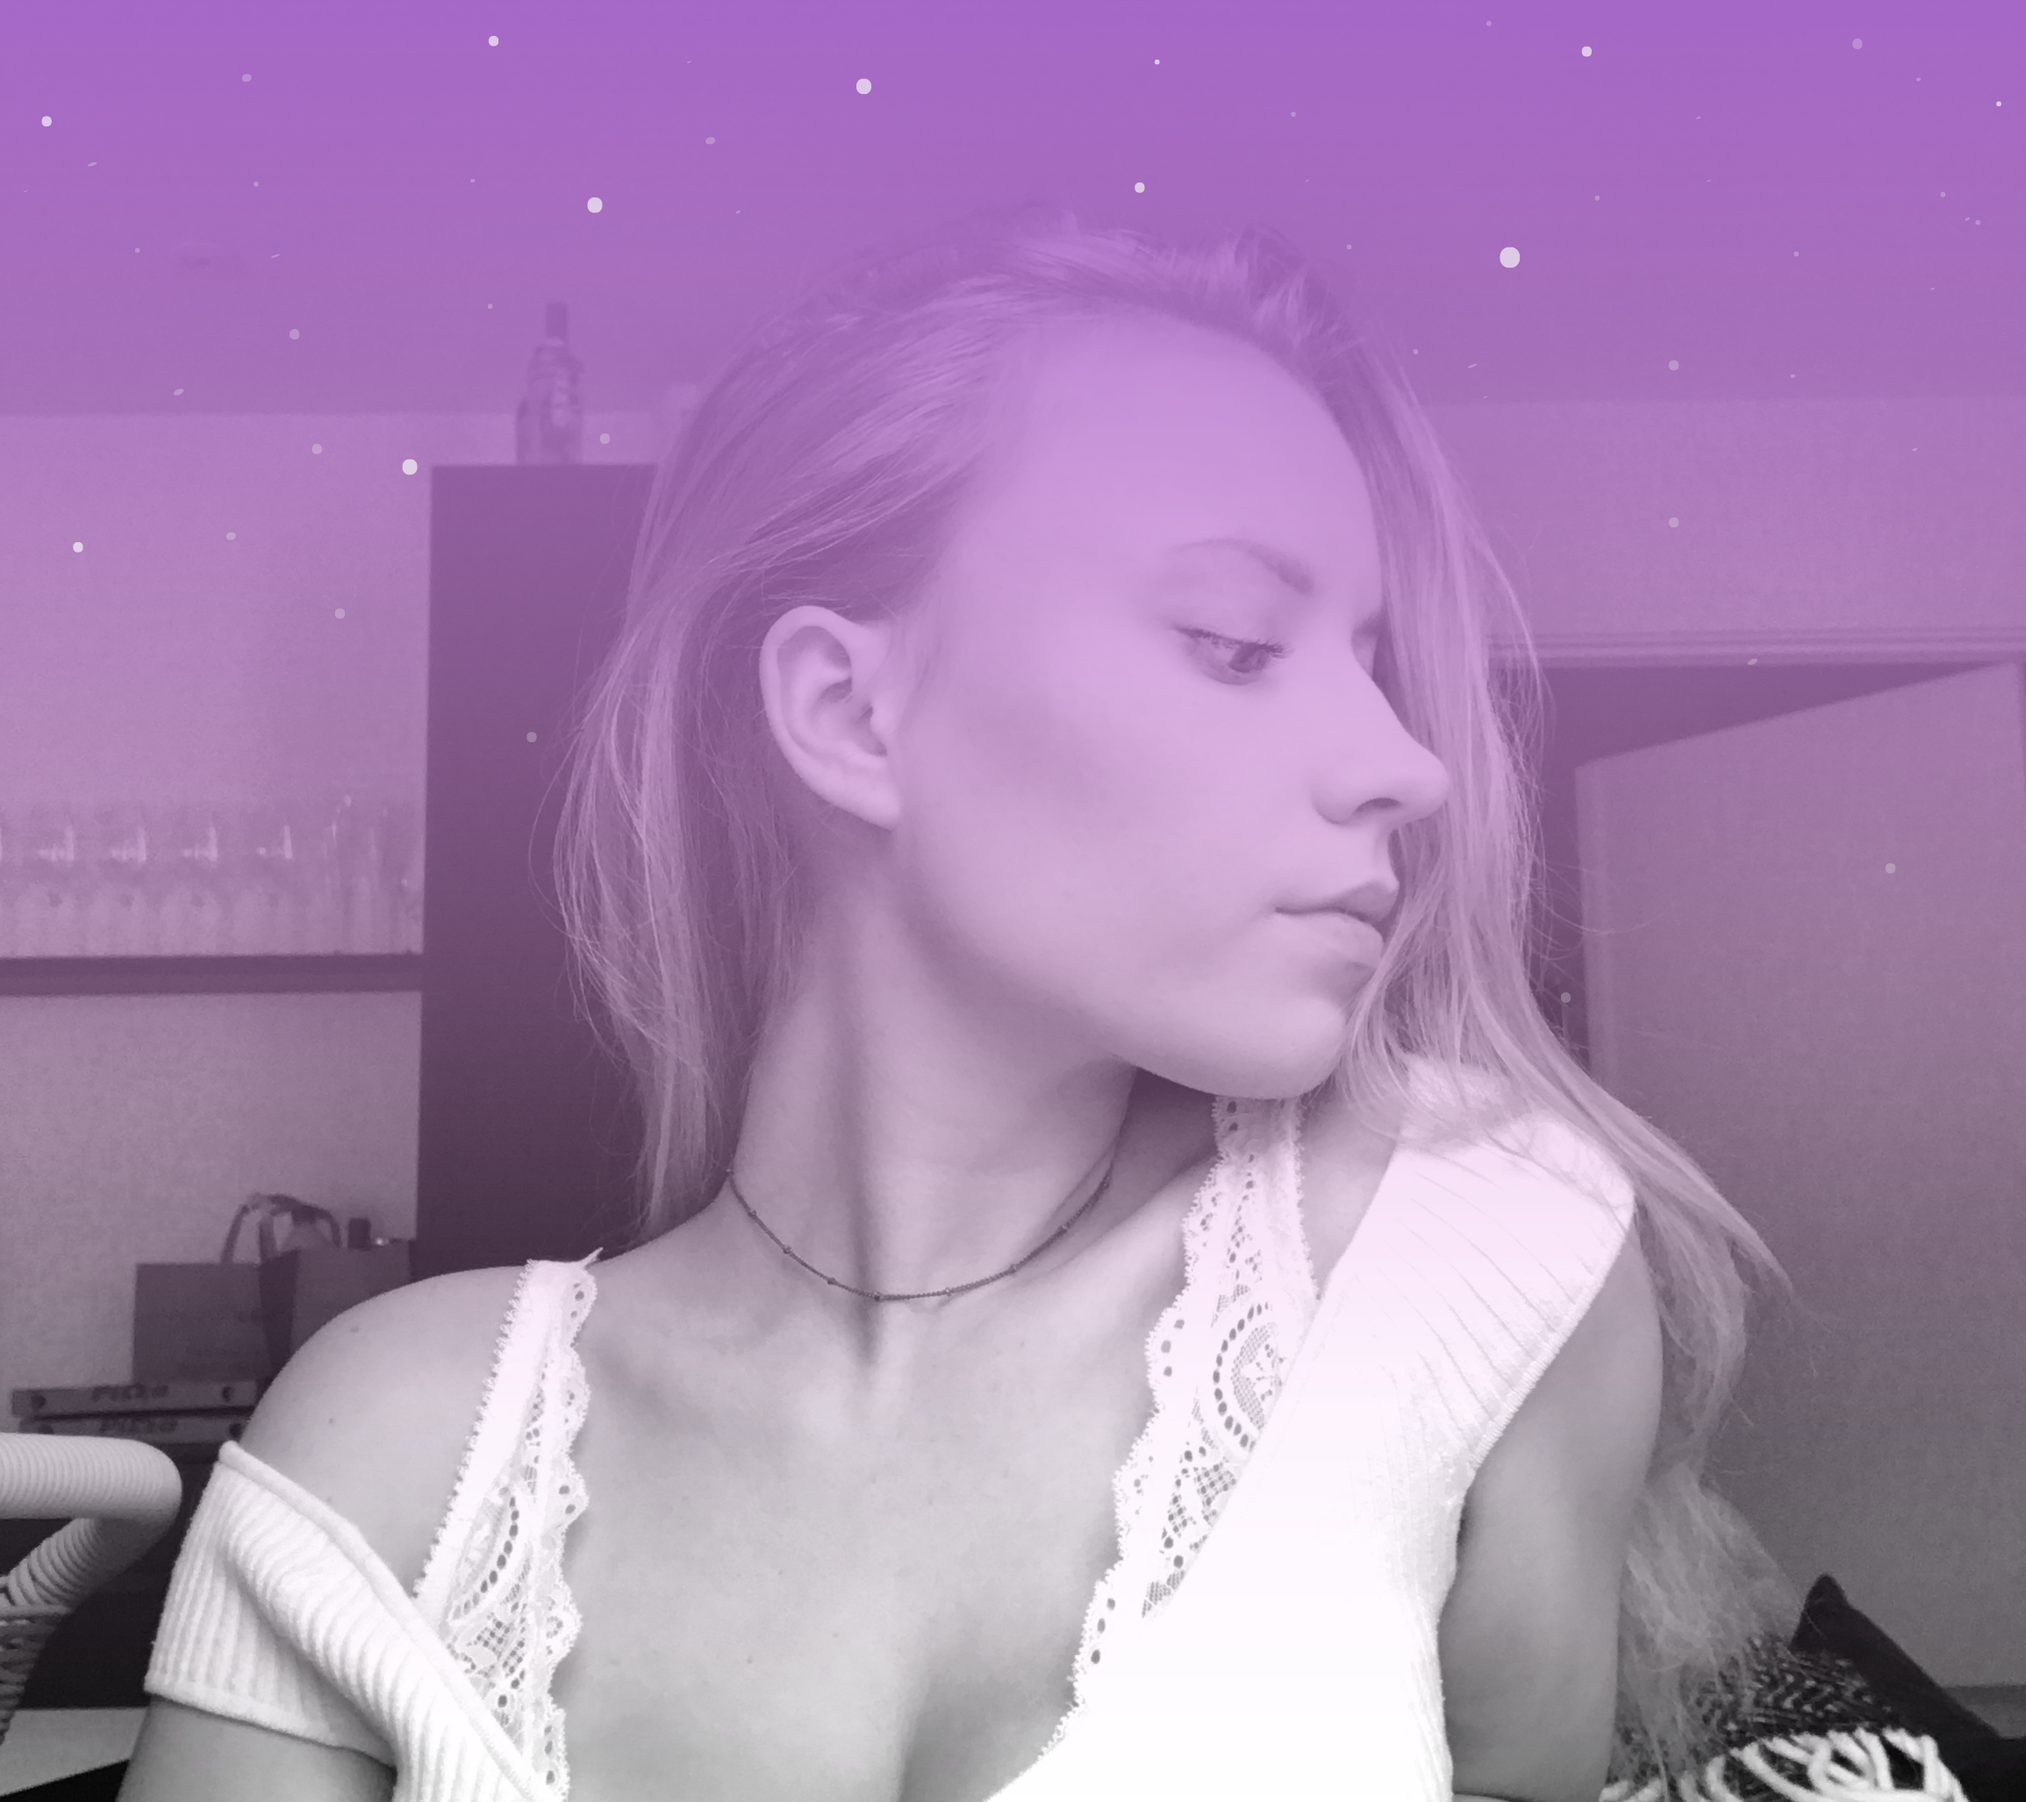
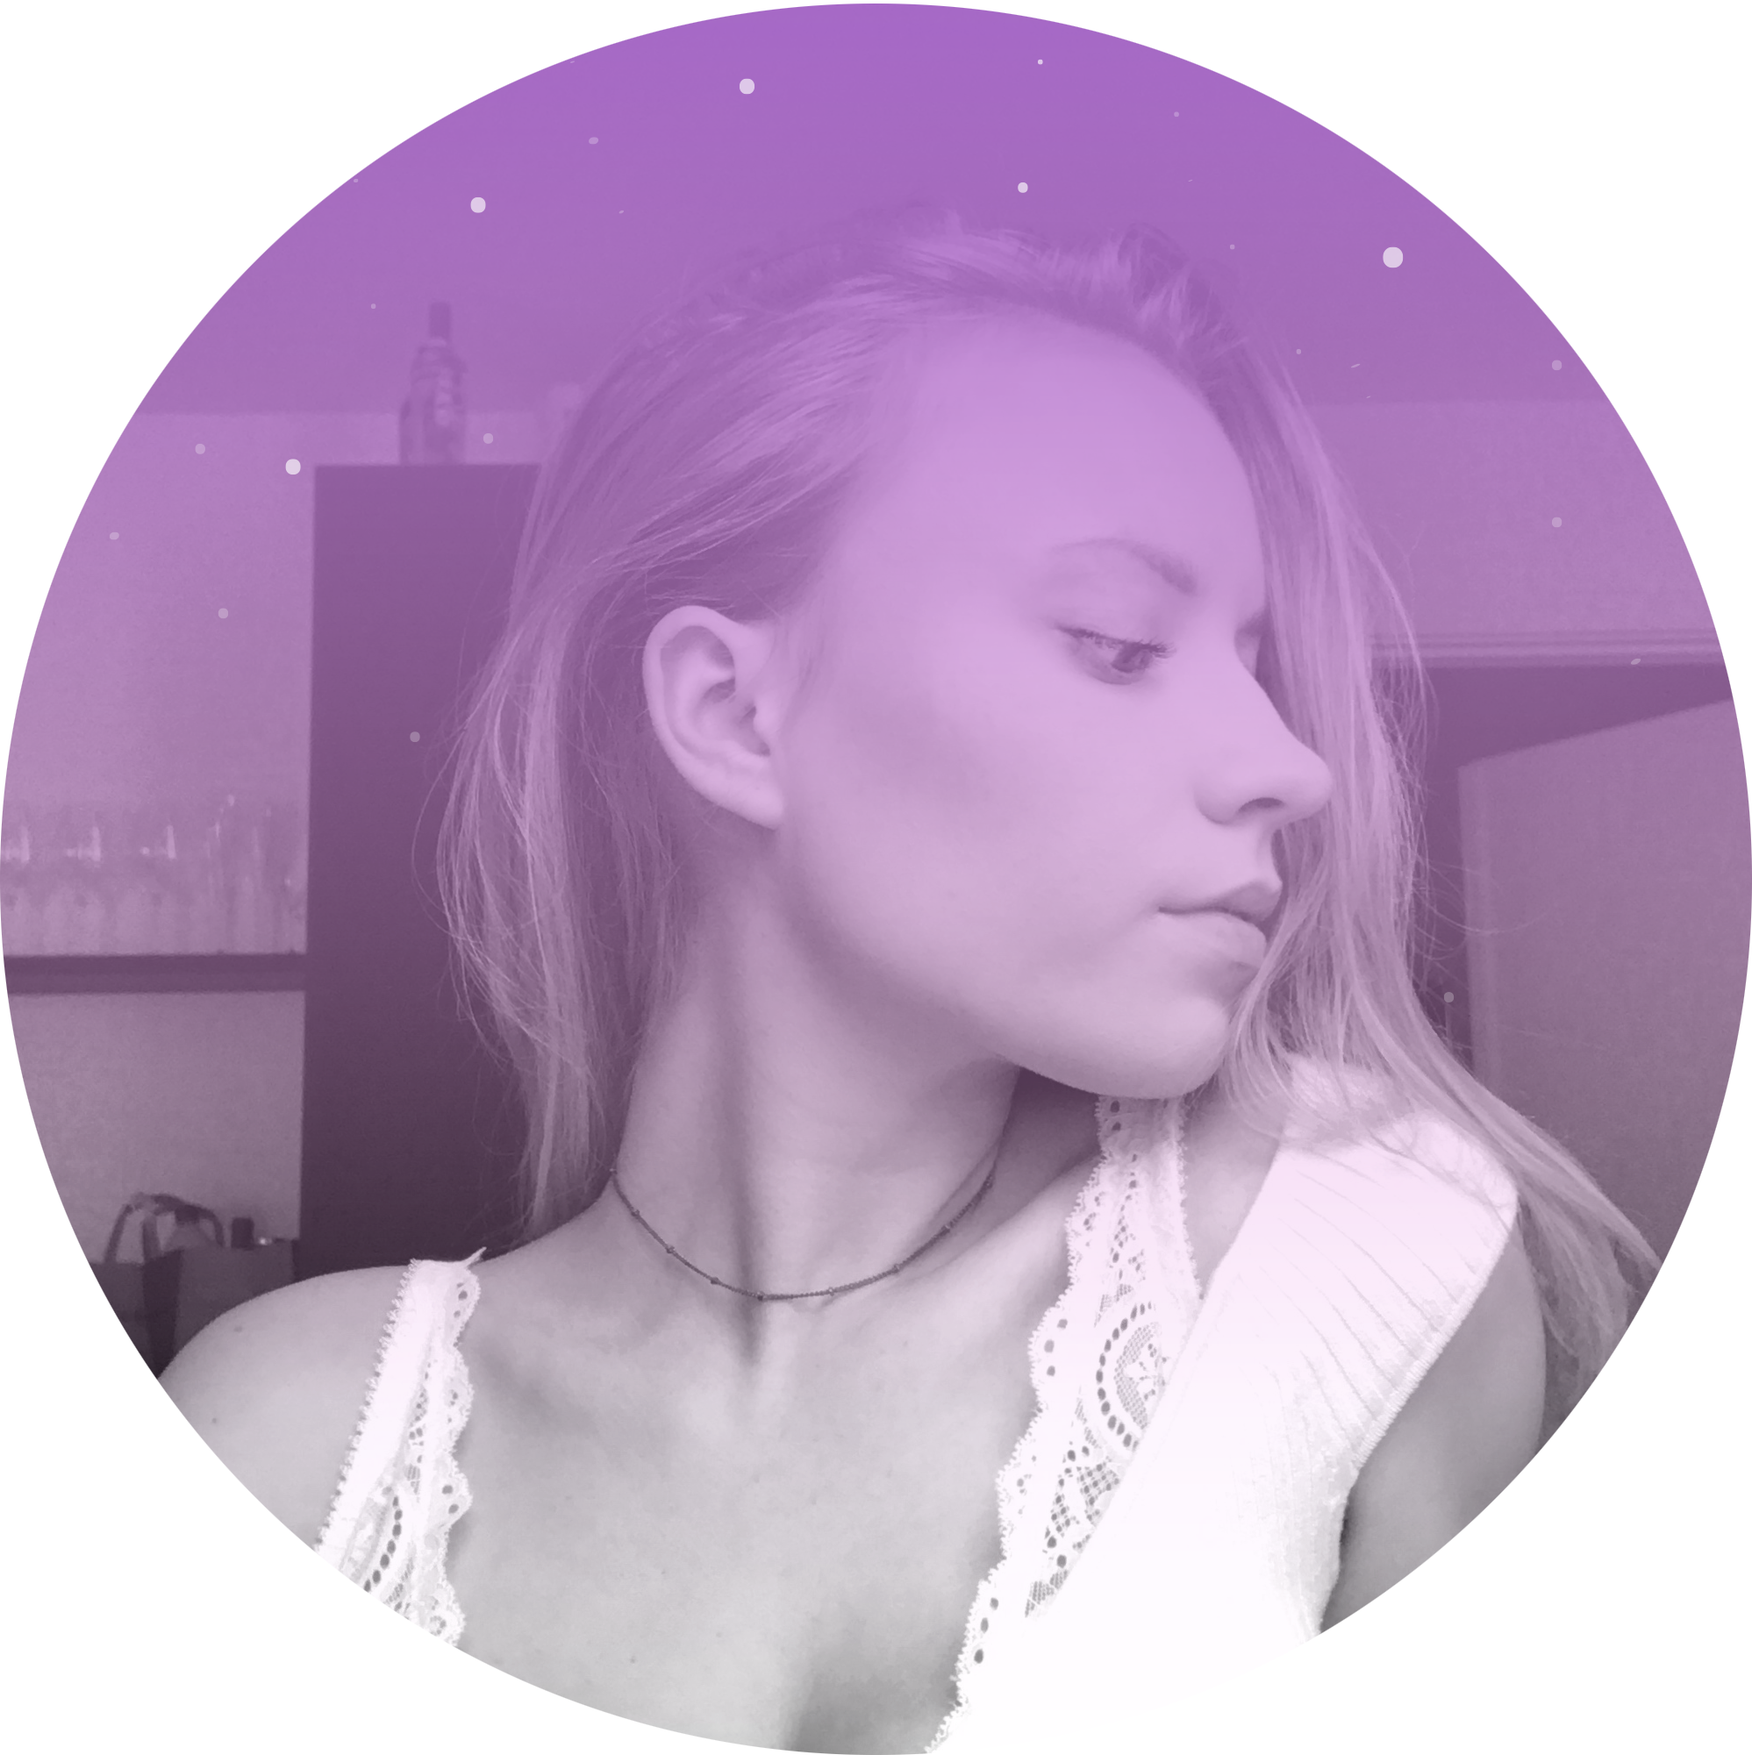
about me page further worked on - text put in

diff --git a/css/style.css b/css/style.css
@@ -157,7 +157,7 @@ input:checked ~ .menu {
     color: white;
     font-size: 1.2em;
     text-align: center;
-    padding: 5em 2em 5em 2em;
+    padding: 8em 2em 8em 2em;
 }
 
 .passion img {
@@ -167,7 +167,7 @@ input:checked ~ .menu {
 }
 
 .adobe {
-    padding: 5em 2em 5em 2em;
+    padding: 8em 2em 8em 2em;
     font-size: 1.2em;
     text-align: center;
 }
@@ -184,9 +184,9 @@ input:checked ~ .menu {
 /*       footer   */
 
 footer {
-    background-color: #DBB9CA;
+    background-color: rgba(205, 151, 218, .65);
     text-align: center;
-    padding: 5em 2em 5em 2em;
+    padding: 4em 2em 4em 2em;
 }
 
 footer p {
@@ -217,25 +217,33 @@ footer a {
 
 /* about me page */
 
-.header {
-    width: 130vw;
-    position: relative;
-    overflow-x: hidden;
-
-
-}
-
-.about-text {
-    position: absolute;
-    display: block;
-    top: 20vw;
-    right: 50vw;
-    font-size: 1em;
-    color: white;
+.moi {
+    padding: 5em 2em 1em 2em;
+    font-size: 1.2em;
+    text-align: center;
 }
 
 .moi img {
-    width: 100%;
+    width: 70vw;
+    height: auto;
+    padding-bottom: 2em;
+    padding-top: 2em;
+
+}
+
+.general {
+    background-color: #302A49;
+    color: white;
+    font-size: 1em;
+    text-align: center;
+    padding: 5em 2em 5em 2em;
+}
+
+.hobbies {
+    padding: 5em 2em 5em 2em;
+    font-size: 1em;
+    text-align: center;
+
 }
 
 /*    projects page   */
@@ -291,14 +299,20 @@ footer a {
 }
 
 
+
 /* TABLET VERSION */
 
-@media all and (min-width:35em) {
+@media all and (min-width:40em) {
 
     .homepic {
         width: 150%;
         height: auto;
         margin: 0em 0em 0em -15em
+    }
+
+    .tiril {
+        padding-top: 10em;
+        padding-bottom: 10em;
     }
 
     .tiril img {
@@ -309,8 +323,19 @@ footer a {
         width: 40vw;
     }
 
+
+    .passion {
+        padding-top: 10em;
+        padding-bottom: 10em;
+    }
+
     .dots img {
         width: 60vw;
+    }
+
+    .adobe {
+        padding-top: 10em;
+        padding-bottom: 10em;
     }
 
     /*     navigation    */
@@ -332,6 +357,8 @@ footer a {
         display: none;
     }
 }
+
+/* grid */
 
 /*  DESKTOP VERSION */
 
@@ -361,7 +388,7 @@ footer a {
     /* grid */
     .wrapper {
         display: grid;
-        grid-template-columns: 1fr 1fr;
+        grid-template-columns: 1fr 1fr 1fr;
     }
 
     .dots {

diff --git a/about.html b/about.html
@@ -30,22 +30,34 @@
             </nav>
         </header>
 
-        <div class="page-head">
-            <img class="header" src="images/header.svg" alt="header image of skies and stars">
-        </div>
-        <div class="about-text">
-            <h1>About me</h1>
-        </div>
+
 
         <div class="moi">
-            <h1>My name is Tiril</h1>
             <img src="images/me.png" alt="Picture of myself">
+
+            <div class="dots">
+                <img src="images/dot.svg" alt="four dots">
+            </div>
+        </div>
+
+
+        <div class="general">
+            <p>My name is Tiril, and I am 21 years old from Norway. I am currently living and studying in Copenhagen, Denmark to become a multimedia designer.</p>
+        </div>
+
+        <div class="hobbies">
+            <p>My interests are football, art, photography and video games. I'm a fan of the combination between traditional and digital art.
+                <br>
+                <br> I am a huge fan of Star Wars and Liverpool Football Club.
+            </p>
         </div>
 
 
 
         <div class="footer">
             <footer>
+
+
                 <ul>
                     <li><a href="index.html">Facebook</a></li>
                     <li><a href="index.html">Twitter</a></li>

diff --git a/index.html b/index.html
@@ -23,7 +23,7 @@
 
             <!---- logo ----->
 
-            <img class="logo" src="images/tkg-logo2.svg" alt="logo">
+            <a href="index.html"><img class="logo" src="images/tkg-logo2.svg" alt="logo"></a>
 
             <!---- navigation --->
 
@@ -67,7 +67,7 @@
 
         <div class="passion">
             <img src="images/design.svg" alt="illustrations of different devices">
-            <p>I have a passion for web design, illustrating, animation and videomaking.</p>
+            <p>I have a passion for web design, illustration, animation and videomaking.</p>
         </div>
 
         <div class="adobe">

diff --git a/projects.html b/projects.html
@@ -15,7 +15,7 @@
             <header>
                 <!---- logo ----->
 
-                <img class="logo" src="images/tkg-logo2.svg" alt="logo">
+                <a href="index.html"><img class="logo" src="images/tkg-logo2.svg" alt="logo"></a>
 
                 <!---- navigation --->
 
